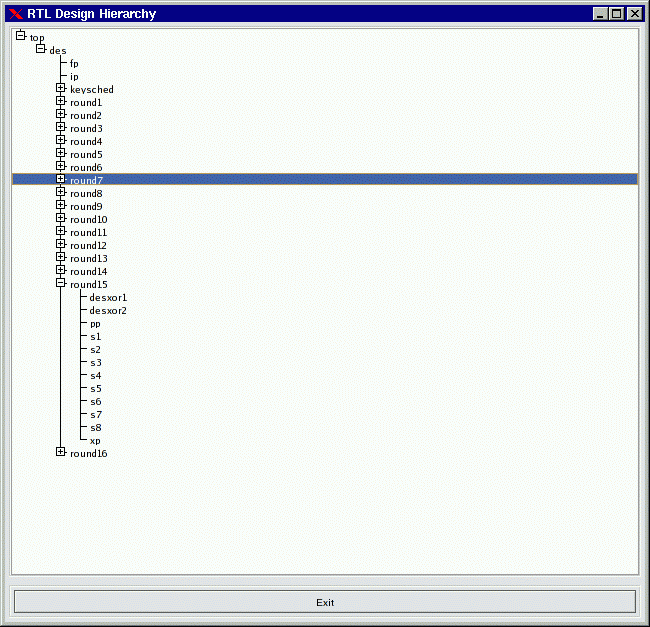
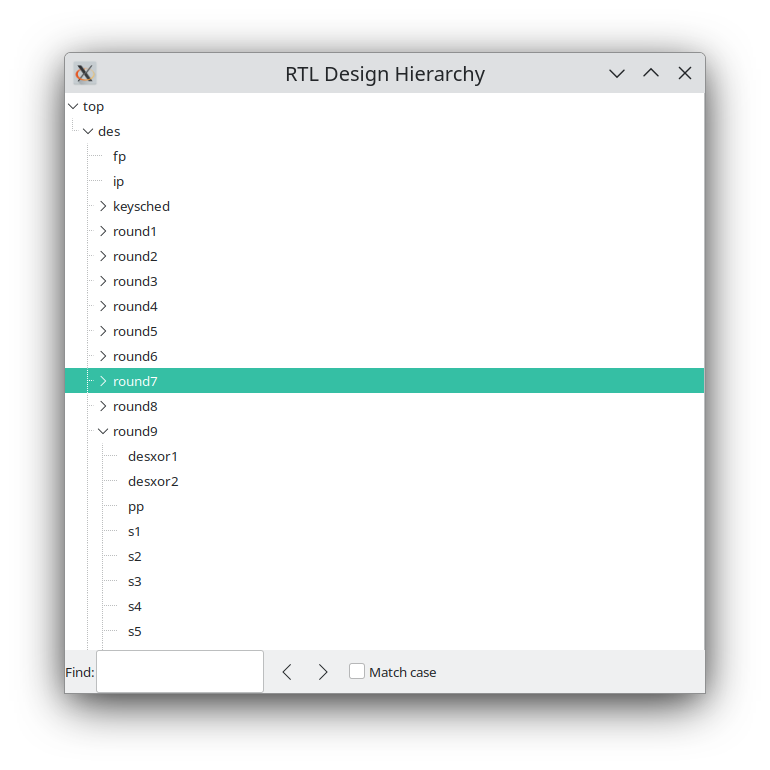
Revise rtlbrowse
Update screenshots
revise the introduction

diff --git a/docs/ui/rtlbrowse.md b/docs/ui/rtlbrowse.md
@@ -1,11 +1,12 @@
 # RTLBrowse
 
-rtlbrowse is usually called as a helper application by gtkwave. In order
-to use RTLBrowse, Verilog source code must first be compiled with
-xml2stems in order to generate a stems file. A stems file contains
-hierarchy and component instantiation information used to navigate
-quickly through the source code. If GTKWave is started with the
-**\--stems** option, the stems file is parsed and rtlbrowse is launched.
+RTLBrowse is called as a helper application by GTKWave and
+is used to view and navigate through RTL source code. To use RTLBrowse,
+Verilog source code must first be compiled into a `stems` file using the
+`xml2stems`. This `stems` file, which contains hierarchy and component
+instantiation information used to navigate quickly through the source
+code. If GTKWave is started with the
+`--stems` option, the stems file is parsed and RTLBrowse is launched.
 
 The main window for RTLBrowse depicts the design as a tree-like
 structure as shown in
@@ -13,6 +14,13 @@ structure as shown in
 Nodes in the tree may be clicked open or closed in order to navigate
 through the design hierarchy. Missing modules (unparsed, but instantiated
  as components) will be marked as "\[MISSING\]".
+
+:::{figure-md} the-rtlbrowse-rtl-design-hierarchy-window
+
+![The RTLBrowse RTL Design Hierarchy window](../_static/images/rtlbrowse1.png)
+
+The RTLBrowse RTL Design Hierarchy window
+:::
 
 When an item is selected, another window is opened showing only the
 source code the selected module. If the primary marker is set, then the
@@ -29,12 +37,7 @@ Note that it is possible to descend deeper into the design hierarchy by
 selecting the component name in the annotated or unannotated source
 code.
 
-:::{figure-md} the-rtlbrowse-rtl-design-hierarchy-window
 
-![The RTLBrowse RTL Design Hierarchy window](../_static/images/rtlbrowse1.png)
-
-The RTLBrowse RTL Design Hierarchy window
-:::
 
 :::{figure-md} source-code-annotated-by-rtlbrowse
 ![Source code annotated by RTLBrowse](../_static/images/rtlbrowse2.png)
